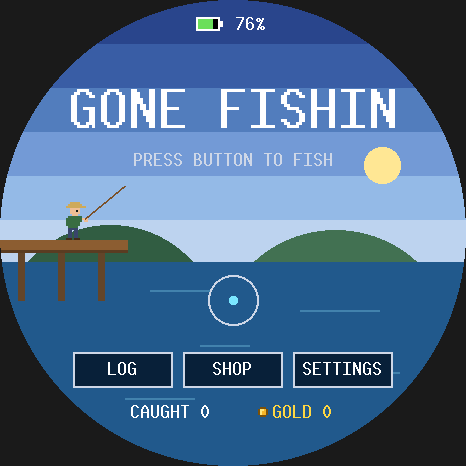
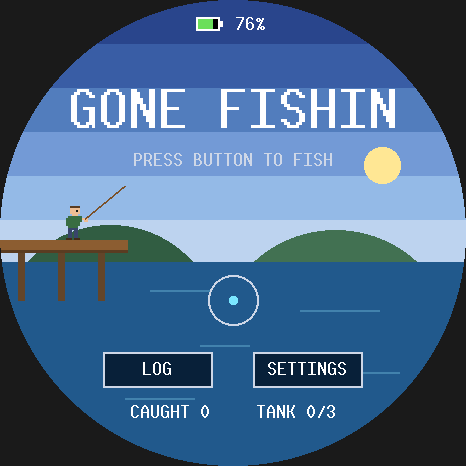
devlog: beats 23-32 (Fish Pals' town and apps, voice prints from say-made speech, the I2C GPS, the petting tap, the 60% clock, the den's odds, and the 3 KB resource that cost 204 KB) with screenshots; screenshots regenerated for every app

diff --git a/devlog/beats.md b/devlog/beats.md
@@ -288,3 +288,165 @@ Images are in `img/`. Newest beats go at the bottom.
   at runtime. It sits at 100 gold, between the cowboy and spider hats.
 - **The bees wear it too**, since Bees??? reads Angler's worn hat.
 - Images: `22-clown-hat-shop.png`, `22-clown-bees.png`.
+
+## 23. Fish Pals: the arcade becomes a town
+
+- **The ask:** "reconfigure into more of a game loop like Nintendogs":
+  - catch fish and keep three, named;
+  - walk them for stamina;
+  - teach them five tricks of varying rarity with the mics and touch;
+  - win gold in contests;
+  - Spider Roulette as the gambling den, Skate as an arcade cabinet and Bees??? as a tree,
+    all found on an overworld map.
+- **The architecture is the heap budget:**
+  - every place is its own Bevy app, built when you walk in and dropped when you leave;
+  - the town is the hub the board boots into;
+  - the kept fish, gold and hats pass between apps in one `PALS` save section, about 2.3 KB
+    for a full tank of taught fish.
+- **Walking around:** six round clearings joined by paths at the compass points.
+  - Turning the device walks you left and right; leaning walks you up and down; or tap
+    where to go.
+  - PWR at a door goes in, and you come back out at the same door.
+- Images: `23-town-home.png`, `23-town-main-street.png`.
+
+## 24. The pond: keep, name, release
+
+- **Catches pay no gold now:** the pond is where pets come from.
+  - A landed fish is KEEP (held level) or RELEASE (turned right).
+  - A full tank asks who goes back.
+- **Typing by turning:** A to Z, SPACE, DEL and OK ring the glass, and the turn points at
+  one, as the menus do.
+  - 29 keys at 3x gain is about 4 degrees of wrist per letter.
+  - A little hysteresis stops a hand held on a boundary flickering between two letters.
+  - DEL and OK sit just counterclockwise of A, a small turn left from level.
+- **Old saves:** the gold and hats from Angler's shop carry over into the tank, once.
+- Images: `24-keep-or-release.png`, `24-naming-by-turning.png`, `24-tank-full.png`.
+
+## 25. Voice commands without speech recognition
+
+- **The idea (Nintendogs' trick):** don't recognize words; recognize *your* words.
+  - Each word becomes a 145-byte print: five frequency bands' loudness plus the hiss, every
+    16 ms, stretched to 24 frames.
+  - A command is the nearest taught print by dynamic time warping, if it's near enough.
+- **Real speech for the tests:** macOS `say` made 20 clips (two voices, five trick words,
+  normal and fast). A test command is the fast version at 35% volume in room hiss, matched
+  against that speaker's normal recordings.
+- **First try: 9 of 10.** Fred's fast "flip" came out nearer his "jump".
+- **The cause was the soft "f":** at 35% volume it fell under the speech threshold, so the
+  listener heard "lip".
+  - Fred's slow "flip" lost 4 of its 32 frames; Daniel's fast one lost 3 of 12.
+  - Fix: cut each word's edges against its *own* peak (about -20 dB), with a longer
+    pre-roll, instead of a fixed threshold.
+  - Lengths came out identical at full and 35% volume, and all 10 matched.
+- **The threshold:** correct matches came out at 12 to 45, other words at 33 and up, a
+  whistle at 94 or more, so the cutoff is 60. A clap no longer even registers as a word.
+- Image: `25-say-a-word.png`.
+
+## 26. The GPS is on I2C
+
+- **The board:** it's the -G variant (SKU 31264), with a Quectel LC76G and a ceramic antenna.
+- **Research said:**
+  - The module talks over the shared I2C bus (0x50, 0x54, 0x58). The UART pads are
+    probably unpopulated (resistors marked NC).
+  - It has no power enable, so it draws about 36 mA whenever the board is on.
+  - A Quectel forum thread reports the I2C side locking up on a busy shared bus. Touch and
+    the IMU share this one.
+- **The game doesn't care where the bytes come from:** an NMEA parser (RMC and GGA, any
+  talker, checksummed) feeds a trail that:
+  - only counts once you're 8 m from the last counted spot, so jitter doesn't count;
+  - ignores fixes with an HDOP over 5;
+  - skips anything over 4.5 m/s (a car).
+- **MOCK WALK** in the town's settings strolls at 1.4 m/s through the same trail, for
+  indoors and the desktop.
+- **The mics share the speaker's clocks:** esp-hal's I2S signal loopback lets RX share TX's
+  BCLK/WS. So capture needs the speaker stream running, even if it's only silence.
+
+## 27. The house: a tank, cards and trick school
+
+- **The tank:** your fish swim in it wearing their hats. Turn to point at one; its card shows
+  species, size, stamina, appeal and the five tricks, coloured by rarity.
+- **Teaching:** watch the trick, then say a word twice into the mics or draw a stroke twice
+  (tap, hold, swipe four ways, or a circle either way). A word or stroke another trick
+  already uses is refused.
+- **Practice:** give the command and the fish tries, by how well it knows the trick. Pet it
+  right after a success to double the lesson.
+- **A bug the tests caught:** the petting tap also lifted as a Tap command, and its "LOOKS
+  PUZZLED" overwrote "GOOD FISH!".
+  - Fix: strokes are only read on screens waiting for a command.
+  - A press that starts anywhere else, petting included, is never one.
+- Images: `27-the-tank.png`, `27-a-card.png`, `27-pet-it.png`.
+
+## 28. Walks build stamina
+
+- **Levels:** stamina level is 1 + √(metres / 100), so levels come at 100 m, 400 m and 900 m.
+- **Saving:** progress saves every 25 m, so a flat battery loses little of a walk.
+- **On screen:** the fish rides in a bowl on wheels, the rim fills toward the next level,
+  and a level chimes as it comes.
+- Image: `28-a-mock-walk.png`.
+
+## 29. Contests, and a clock that ran at 60%
+
+- **The show:** 30 seconds of live commands.
+  - Each trick scores its rarity's points, raised by how well it's known, with a combo for
+    changing it up.
+  - Every few seconds a judge calls a trick, worth double if done in time.
+  - Each try costs stamina, and a spent fish ends its show.
+  - Looks (rarity, size, hat) add their appeal; three rivals decide the place.
+- **The bug:**
+  - the show kept time in hundredths of a second so it could compare exactly;
+  - each 1/60 s frame truncated to a single hundredth, so the show ran at 60% speed;
+  - five timing tests failed at once. Plain seconds fixed all five.
+- Images: `29-a-judge-wants.png`, `29-first-place.png`.
+
+## 30. The hat shop goes round
+
+- **Rotation first:** every hat rings the glass, turning points at one, and the mirror in
+  the middle shows your fish wearing it.
+- **Pacing, pinned by a test:** the first hat is one beginner win, and the crown costs more
+  than an expert win but one master win buys it.
+- Image: `30-hat-shop.png`.
+
+## 31. The den's odds
+
+- **Fair odds less a tenth:** with k safe eggs out of 12, the odds of having got that far
+  are (12 - k) in 12, so a bet is worth `stake x 12 x 90% / (12 - k)`.
+- **What that means:** cashing out after one egg loses money, 3 safe eggs pay 1.2x, and
+  trapping the spider pays 10.8x.
+- **Controls:** PWR still just spins (beat 20's lesson); CASH OUT is a tap.
+- Images: `31-place-your-bet.png`, `31-cash-out.png`.
+
+## 32. A 3 KB resource that cost 204 KB of heap
+
+- **heap32 flagged two apps:** the house peaked at 518 KB and the contest at 403 KB, against
+  a 284 KB budget. Both already cost about 400 KB just to *build*.
+- **Narrowing it down:** the one thing they shared was `MicPlugin`.
+  - A bare app was 172 KB; the same app plus `MicPlugin` was 376 KB.
+  - `MicPlugin` adds no systems, just the `Mic` resource, and the listener inside is only
+    3,248 bytes.
+- **The experiment:** a plain resource holding `[u8; 3248]` also cost 204 KB.
+- **The arithmetic:** 64 x 3,248 = 203 KB. Bevy 0.19 seems to keep resources in storage that
+  reserves room for about 64 of each, so a resource costs roughly 64 times its size in heap.
+- **The fix:** box the big part. `Mic` is now 8 bytes, the listener's 3 KB is a single heap
+  allocation, and the mic app went from 376 KB to 177 KB. The GPS buffer got the same
+  treatment.
+- **A second false alarm:** the house still spiked to 319 KB. That was the measurement's own
+  fault.
+  - The test helper that "says" a word built one 45 KB buffer of samples, which doubled
+    while it grew, and the harness held a 17 KB copy of the fixture.
+  - Streaming the samples (as a mic driver does) and a compile-time `static` fixture brought
+    the house to 211 KB.
+- **The rule now:** keep resources small (under about 100 bytes) and box anything bigger.
+- **Heap at peak, of 284 KB:**
+
+  | App | Peak |
+  |---|---|
+  | Shop | 189 KB |
+  | Spider Roulette | 191 KB |
+  | Town | 192 KB |
+  | Bees??? | 193 KB |
+  | Skate | 194 KB |
+  | Park | 202 KB |
+  | Contest | 204 KB |
+  | Angler (the pond) | 207 KB |
+  | House | 211 KB |
+  | Orbit | 265 KB |
